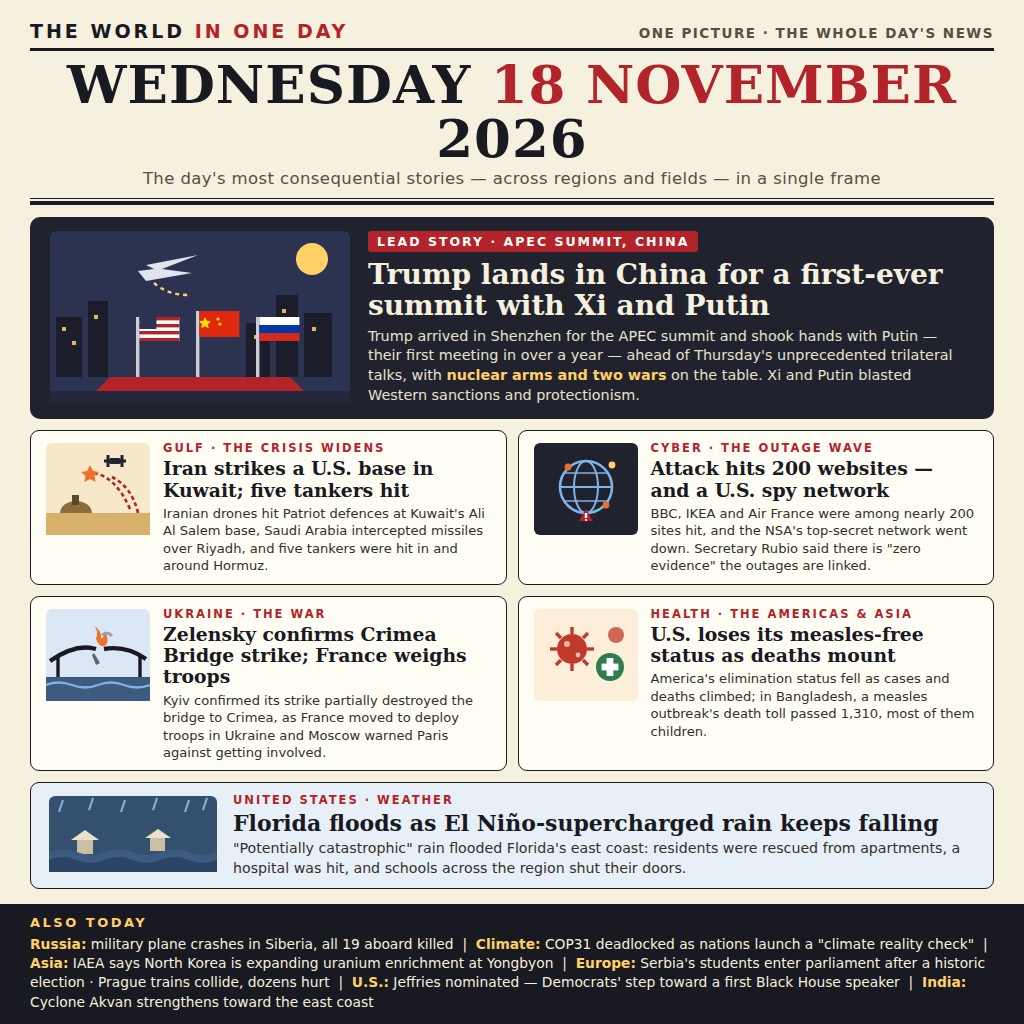
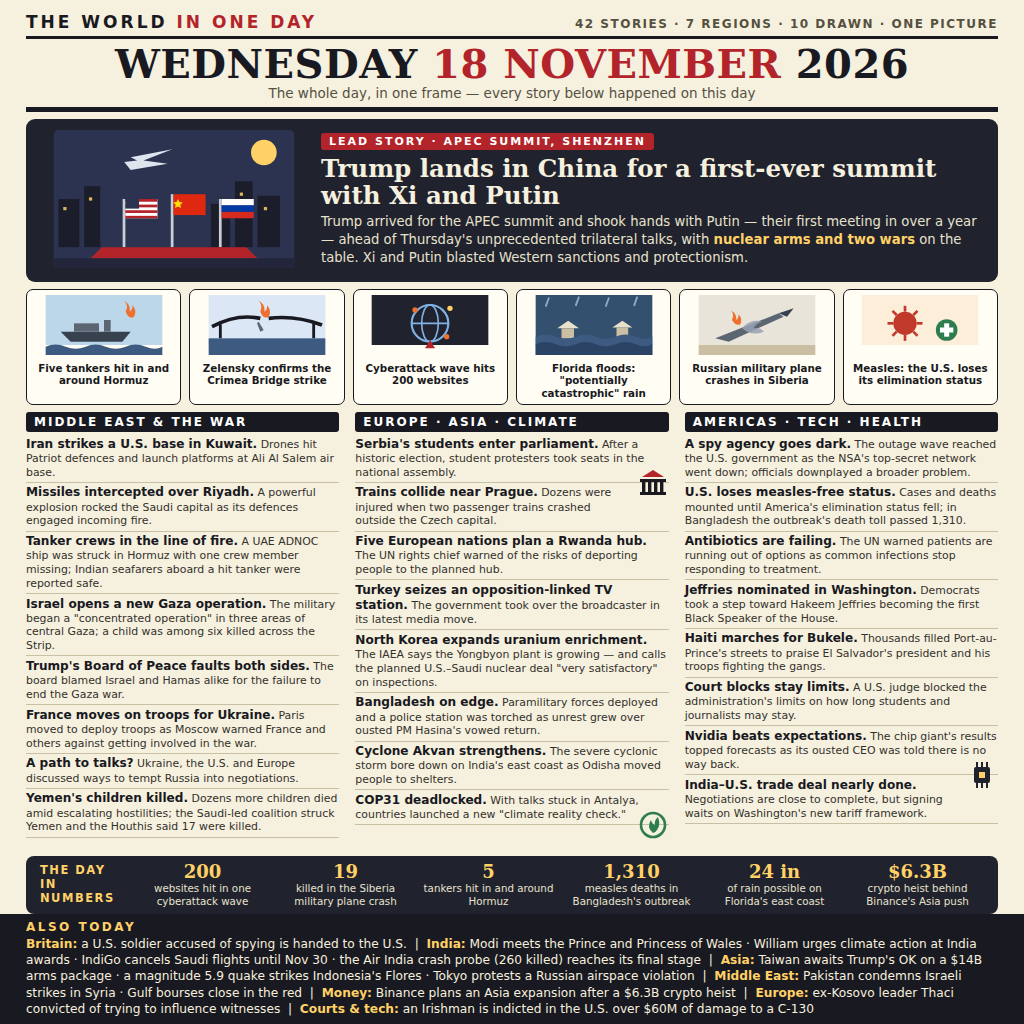
Denser second edition: 42 stories, 7 regions, 10 drawn pictures

diff --git a/README.md b/README.md
@@ -4,7 +4,7 @@
 
 # The World in One Day — Wednesday 18 November 2026
 
-One image that sums up a whole day of world news, drawn as a newspaper front page.
+One image that sums up a whole day of world news, drawn as a newspaper front page: 42 stories, 7 regions, 10 drawn pictures.
 
 The lead story is President Trump's arrival in Shenzhen for the APEC summit — handshakes with Putin, their first meeting in over a year, ahead of the first-ever trilateral talks with Xi Jinping, with nuclear arms and two wars on the table. Around it: Iran striking a U.S. base in Kuwait as five tankers are hit around Hormuz; a cyberattack wave that hit nearly 200 websites and a U.S. spy agency's top-secret network; Zelensky confirming the Crimea Bridge strike as France weighs deploying troops; the United States losing its measles-free status; and Florida flooding under El Niño-supercharged rain. An "Also today" ticker carries the rest: a Russian military plane crash in Siberia, the COP31 deadlock, North Korea's expanding enrichment plant, Serbia's students entering parliament, a Prague train collision, Cyclone Akvan, and the Jeffries nomination in Washington.
 
